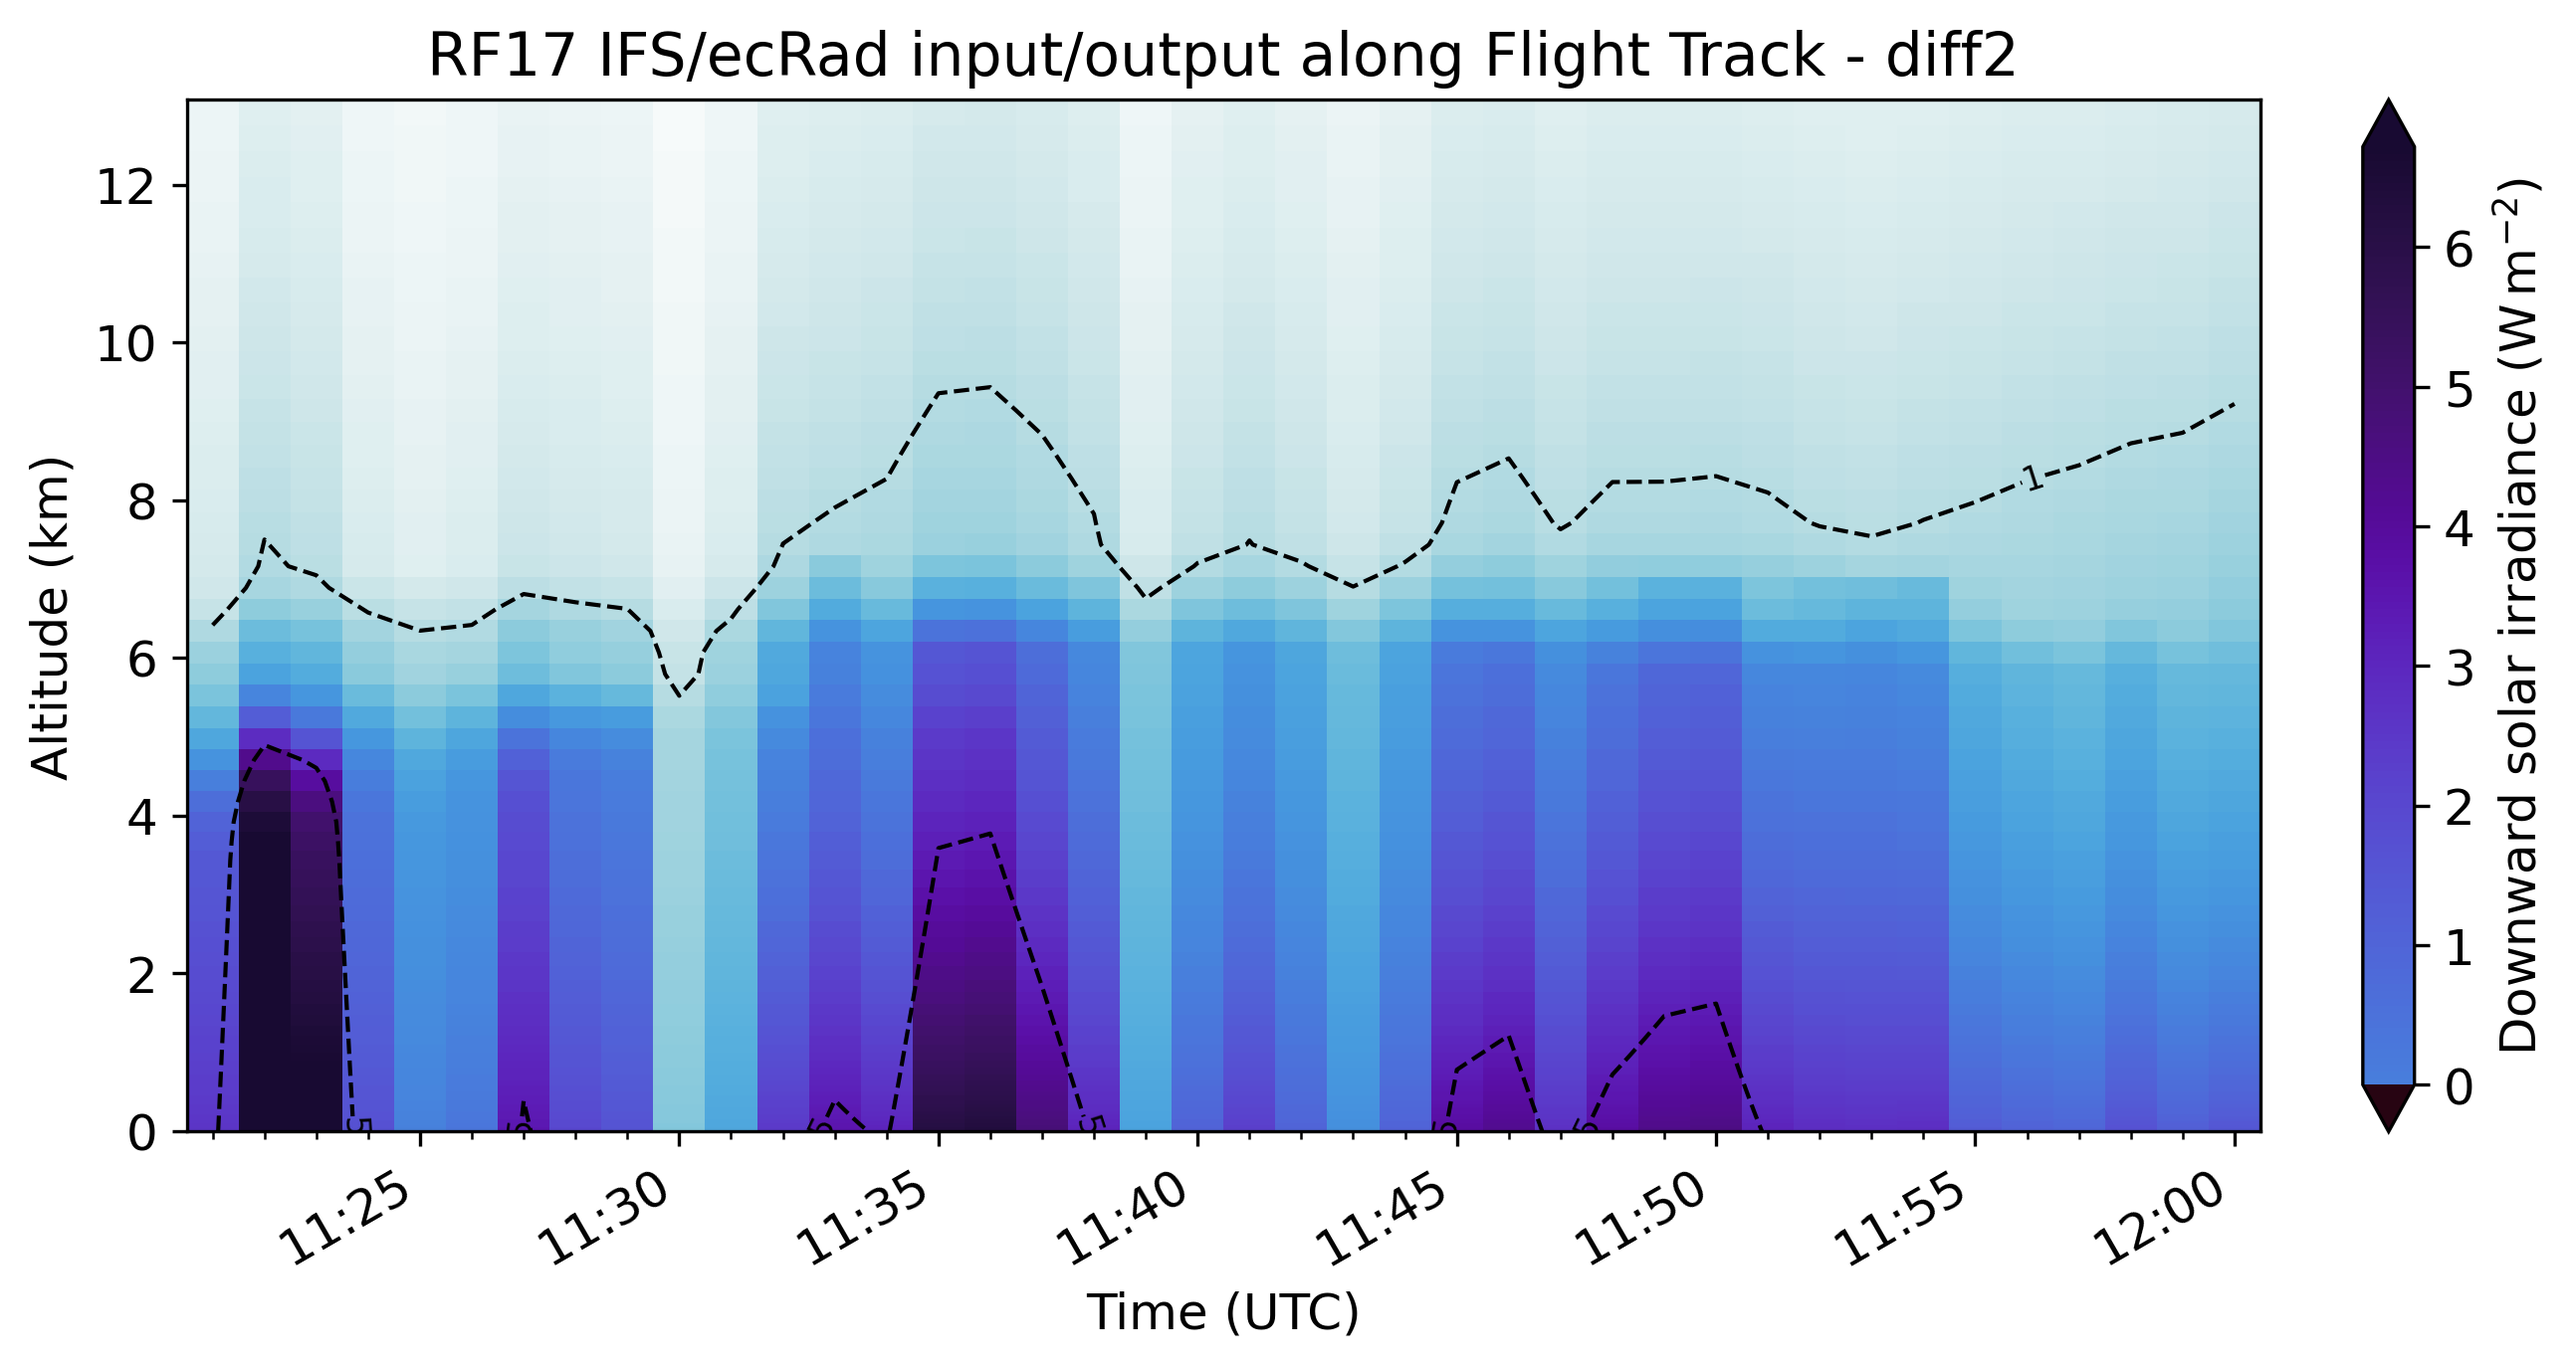
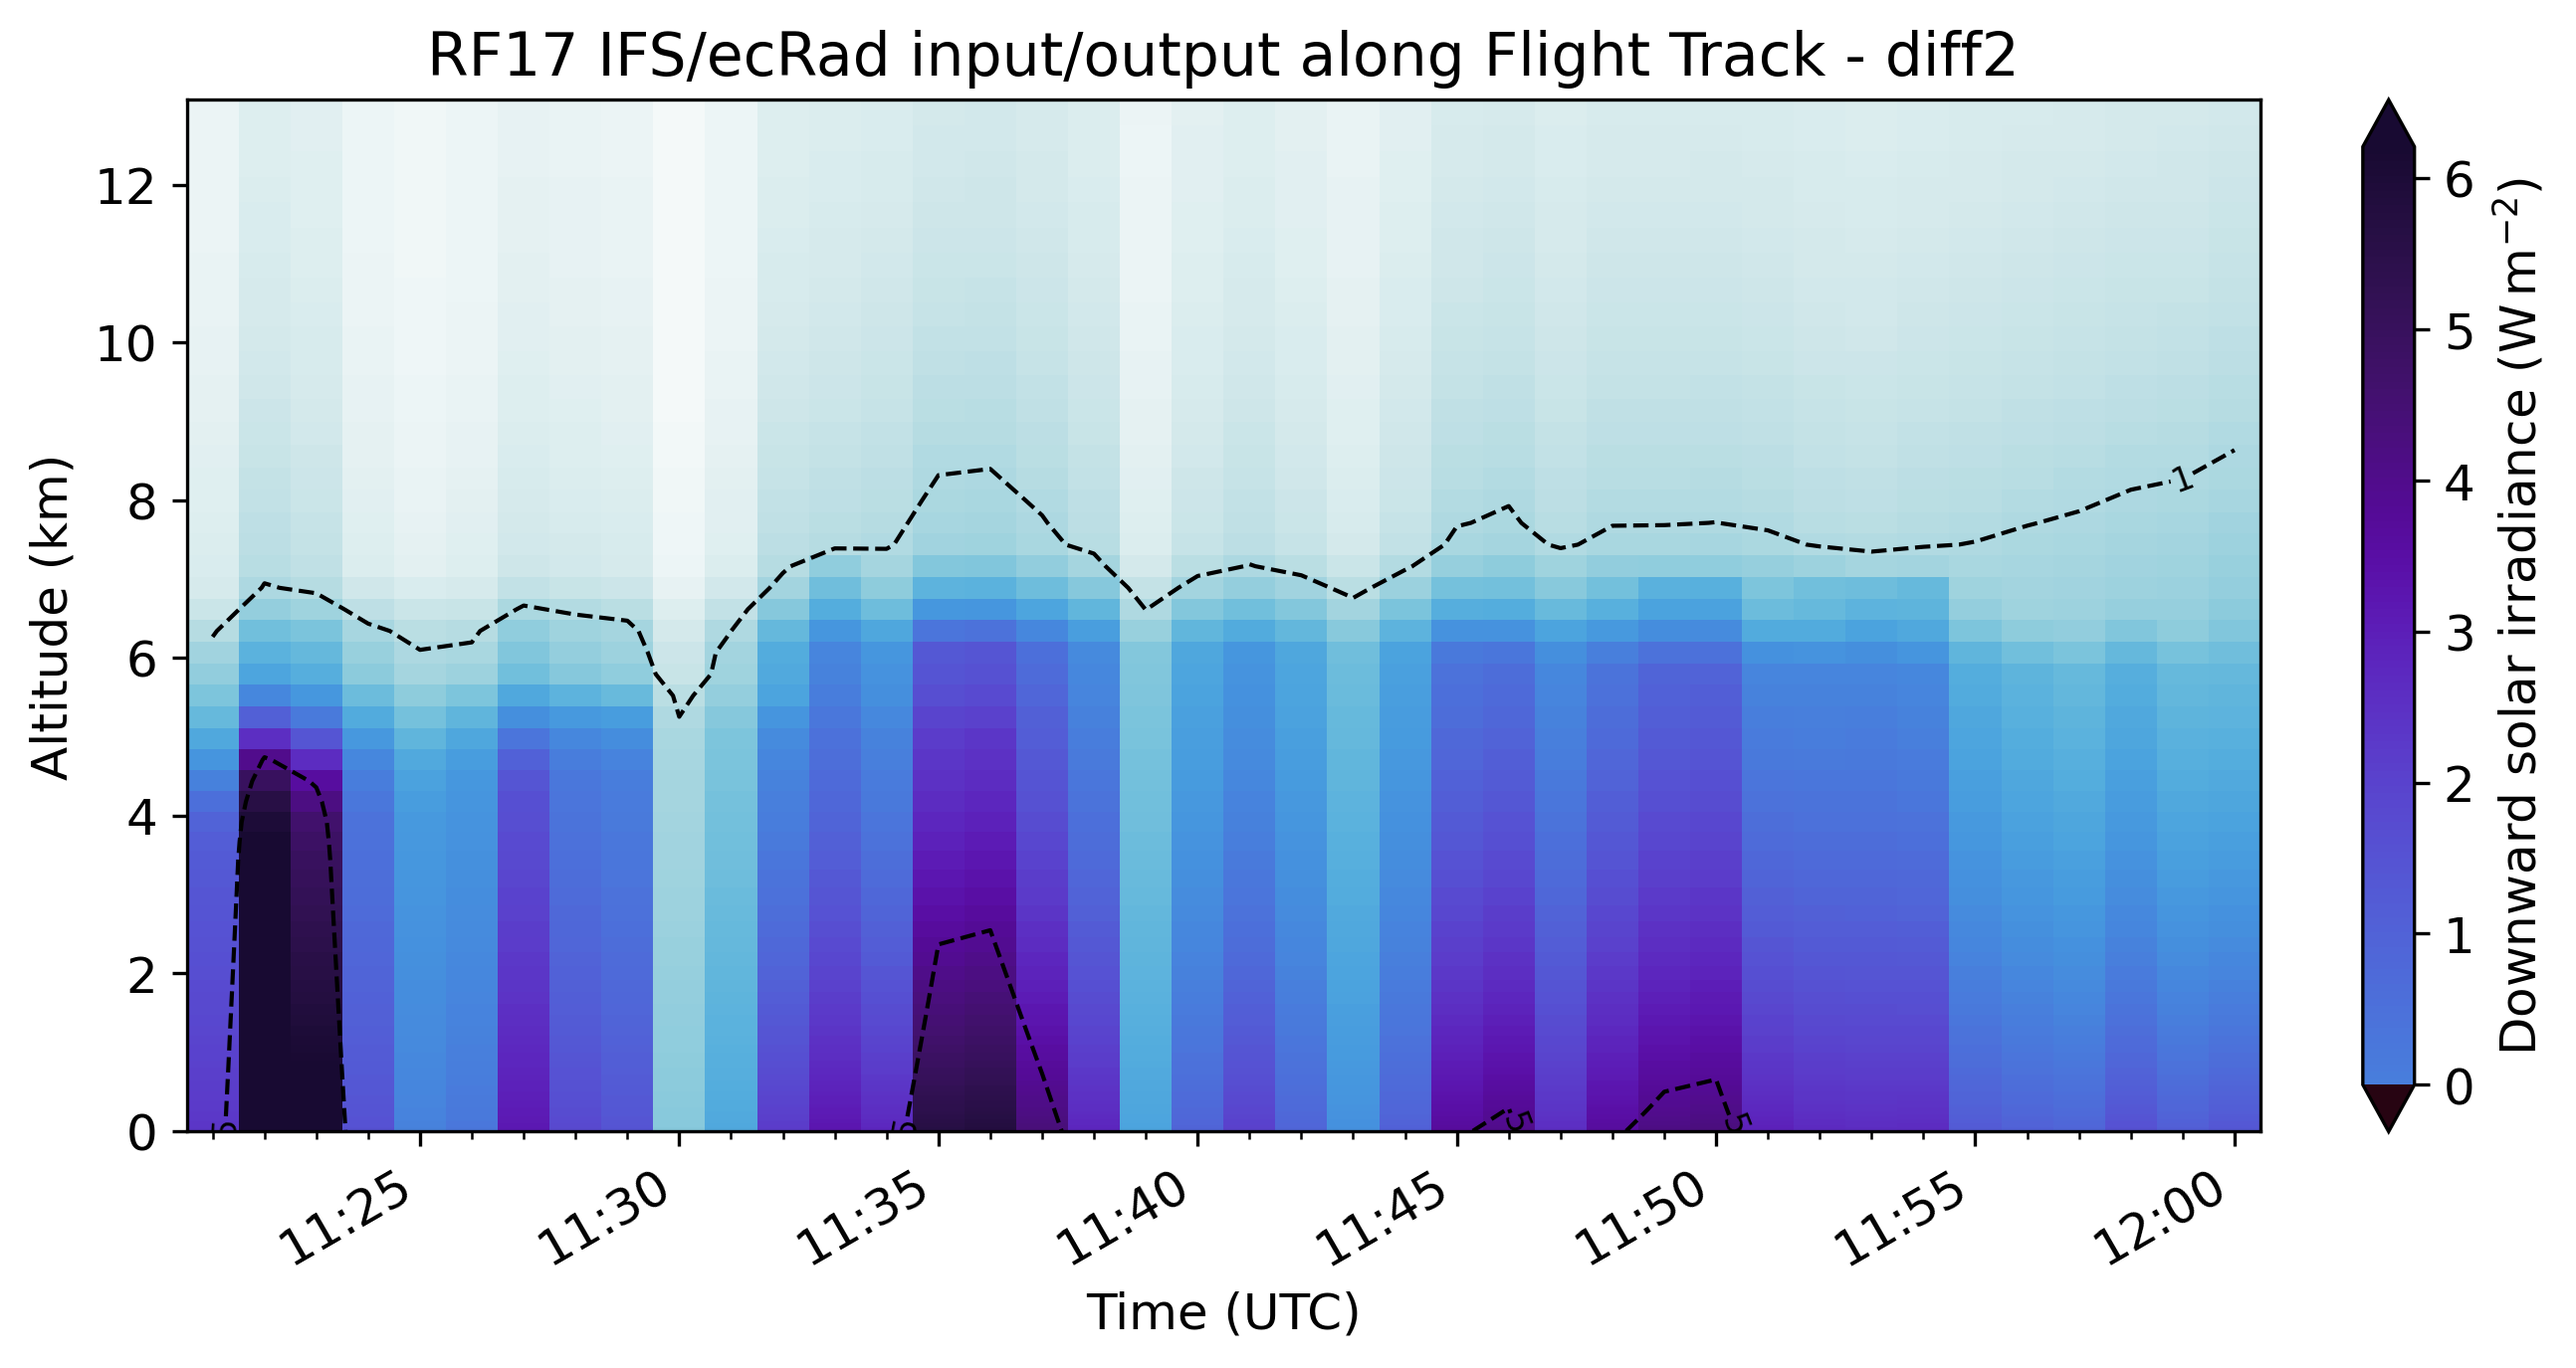
Update experiment v13 with new v15.1 run as comparison and new colors

diff --git a/experiments/ecrad_experiment_v13.py b/experiments/ecrad_experiment_v13.py
@@ -22,7 +22,7 @@ The corresponding spectral surface albedo as used in the IFS can be seen in :num
 
 .. _surface-albedo-cs:
 
-.. figure:: figures/experiment_v13/HALO-AC3_20220411_HALO_RF17_sw_albedo_along_track_v15.png
+.. figure:: figures/experiment_v13/HALO-AC3_20220411_HALO_RF17_sw_albedo_along_track_v15.1.png
 
     Short wave albedo along track above and below cloud for all six spectral bands after :cite:t:`Ebert1992`.
 
@@ -30,20 +30,20 @@ At first, we look at the difference in solar upward and downward irradiance betw
 
 .. figure:: figures/experiment_v13/HALO-AC3_20220411_HALO_RF17_ecrad_diff_flux_up_sw_along_track.png
 
-    Difference in solar upward irradiance between v15 and v13.
+    Difference in solar upward irradiance between v15.1 and v13.
 
 .. figure:: figures/experiment_v13/HALO-AC3_20220411_HALO_RF17_ecrad_diff_flux_dn_sw_along_track.png
 
-    Difference in solar downward irradiance between v15 and v13.
+    Difference in solar downward irradiance between v15.1 and v13.
 
 We can see an unsurprising substantial difference in upward irradiance which then propagates to a smaller but still relevant difference in downward irradiance.
 This is especially pronounced for the thicker section of the cirrus at around 11:15 UTC.
 
 Looking at this from a more statistical point of view we can see the bias between simulation and measurement increase by about :math:`10\,Wm^{-2}`.
 
-.. figure:: figures/experiment_v13/HALO-AC3_20220411_HALO_RF17_Fdw_solar_bacardi_vs_ecrad_scatter_below_cloud_v15.png
+.. figure:: figures/experiment_v13/HALO-AC3_20220411_HALO_RF17_Fdw_solar_bacardi_vs_ecrad_scatter_below_cloud_v15.1.png
 
-    Scatterplot of along track difference between ecRad and BACARDI for v15.
+    Scatterplot of along track difference between ecRad and BACARDI for v15.1.
 
 .. figure:: figures/experiment_v13/HALO-AC3_20220411_HALO_RF17_Fdw_solar_bacardi_vs_ecrad_scatter_below_cloud_v13.png
 
@@ -57,7 +57,7 @@ For this we can take a look at the histogramm of differences and some statistics
 
 .. figure:: figures/experiment_v13/HALO-AC3_20220411_HALO_RF17_ecrad_diff_flux_dn_sw_hist.png
 
-    Histogram of differences between v15 and v13.
+    Histogram of differences between v15.1 and v13.
 
 We see that a lot of values are rather small.
 They correspond to the area above the cloud where only the atmosphere causes some minor scattering.
@@ -71,7 +71,7 @@ See the script for details.
 
 .. figure:: figures/experiment_v13/HALO-AC3_20220411_HALO_RF17_ecrad_diff1_flux_dn_sw_along_track.png
 
-    Difference in solar downward irradiance between v15 and v13.1 (albedo = 0.99).
+    Difference in solar downward irradiance between v15.1 and v13.1 (albedo = 0.99).
 
 By scaling the albedo to an unrealistic value of 0.99 we get a maximum of :math:`0.7\\,Wm^{-2}` difference in solar downward irradiance.
 Comparing the spectral albedo of each experiment in :numref:`spectral-albedo-all-experiments` we can also see, that the standard albedo for the scene is already high.
@@ -88,9 +88,9 @@ Looking at the difference in solar downward irradiance we can see that it is sti
 
 .. figure:: figures/experiment_v13/HALO-AC3_20220411_HALO_RF17_ecrad_diff2_flux_dn_sw_along_track.png
 
-    Difference in solar downward irradiance between v15 and v13.2 (albedo from BACARDI).
+    Difference in solar downward irradiance between v15.1 and v13.2 (albedo from BACARDI).
 
-The comparison with the measurements also show a worse match compared to v15.
+The comparison with the measurements also show a worse match compared to v15.1.
 
 .. figure:: figures/experiment_v13/HALO-AC3_20220411_HALO_RF17_Fdw_solar_bacardi_vs_ecrad_scatter_below_cloud_v13.2.png
 
@@ -114,8 +114,8 @@ if __name__ == "__main__":
     from tqdm import tqdm
     import cmasher as cmr
 
-    cbc = h.get_cb_friendly_colors()
-    h.set_cb_friendly_colors()
+    cbc = h.get_cb_friendly_colors("petroff_6")
+    h.set_cb_friendly_colors("petroff_6")
     plt.rc("font", size=12)
 
 # %% set paths
@@ -164,7 +164,7 @@ if __name__ == "__main__":
 
 # %% read in ecrad data
     ecrad_dict = dict()
-    for v in ["v15", "v13", "v13.1", "v13.2"]:
+    for v in ["v15.1", "v13", "v13.1", "v13.2"]:
         # use center column data
         ds = xr.open_dataset(f"{ecrad_path}/ecrad_merged_inout_{date}_{v}.nc").isel(column=0)
         # select above and below cloud time
@@ -182,23 +182,6 @@ if __name__ == "__main__":
 
         ecrad_dict[k] = ds.copy()
 
-# %% get height level of actual flight altitude in ecRad model, this determines only the index of the level
-    aircraft_height_da, height_level_da = dict(), dict()
-    for v in ["v15", "v13", "v13.1", "v13.2"]:
-        ds = ecrad_dict[v]
-        bahamas_tmp = ins.sel(time=ds.time, method="nearest")
-        ecrad_timesteps = len(ds.time)
-        aircraft_height_level = np.zeros(ecrad_timesteps)
-
-        for i in tqdm(range(ecrad_timesteps)):
-            aircraft_height_level[i] = h.arg_nearest(ds["pressure_hl"][i, :].values, bahamas_tmp.PS[i].values * 100)
-
-        aircraft_height_level = aircraft_height_level.astype(int)
-        height_level_da[v] = xr.DataArray(aircraft_height_level, dims=["time"], coords={"time": ds.time})
-        aircraft_height = ds["pressure_hl"].isel(half_level=height_level_da[v])
-        aircraft_height_da[v] = xr.DataArray(aircraft_height, dims=["time"], coords={"time": ds.time},
-                                             name="aircraft_height", attrs={"unit": "Pa"})
-
 # %% prepare metadata for comparing ecRad and BACARDI
     titles = ["Solar Downward Irradiance", "Terrestrial Downward Irradiance", "Solar Upward Irradiance",
               "Terrestrial Upward Irradiance"]
@@ -208,7 +191,7 @@ if __name__ == "__main__":
 
 # %% set plotting options
     var = "flux_dn_sw"
-    v = "diff1"
+    v = "diff2"
     band = None
 
 # %% prepare data set for plotting
@@ -223,7 +206,7 @@ if __name__ == "__main__":
     cb_ticks = dict()
     vmaxs = dict()
     vmins = dict(iwp=0)
-    xlabels = dict(v15="v15", v13="v13", diff="Difference v15 - v13")
+    xlabels = {"v15.1": "v15.1", "v13": "v13", "diff": "Difference v15.1 - v13"}
 
     # set kwargs
     alpha = alphas[var] if var in alphas else 1
@@ -251,17 +234,17 @@ if __name__ == "__main__":
     if v == "diff":
         # calculate difference between simulations
         ds = ecrad_dict["v13"]
-        ecrad_ds_diff = ecrad_dict["v15"][var] - ds[var]
+        ecrad_ds_diff = ecrad_dict["v15.1"][var] - ds[var]
         ecrad_plot = ecrad_ds_diff.where((ds[var] != 0) | (~np.isnan(ds[var]))) * sf
     elif v == "diff1":
         # calculate difference between simulations
         ds = ecrad_dict["v13.1"]
-        ecrad_ds_diff = ecrad_dict["v15"][var] - ds[var]
+        ecrad_ds_diff = ecrad_dict["v15.1"][var] - ds[var]
         ecrad_plot = ecrad_ds_diff.where((ds[var] != 0) | (~np.isnan(ds[var]))) * sf
     elif v == "diff2":
         # calculate difference between simulations
         ds = ecrad_dict["v13.2"]
-        ecrad_ds_diff = ecrad_dict["v15"][var] - ds[var]
+        ecrad_ds_diff = ecrad_dict["v15.1"][var] - ds[var]
         ecrad_plot = ecrad_ds_diff.where((ds[var] != 0) | (~np.isnan(ds[var]))) * sf
     else:
         ds = ecrad_dict[v]
@@ -331,7 +314,7 @@ if __name__ == "__main__":
     plt.close()
 
 # %% plot histogram
-    xlabels = dict(diff="difference v15 - v13", diff1="difference v15 - v13.1", diff2="difference v15 - v13.2")
+    xlabels = dict(diff="difference v15.1 - v13", diff1="difference v15.1 - v13.1", diff2="difference v15.1 - v13.2")
     xlabel = xlabels[v] if v in xlabels else v
     flat_array = ecrad_plot.to_numpy().flatten()
     mean = np.mean(flat_array)
@@ -355,10 +338,10 @@ if __name__ == "__main__":
 
 # %% plot timeseries
     var = "sw_albedo"
-    v = "v15"
+    v = "v15.1"
     band = None
     if v == "diff":
-        ecrad_plot = ecrad_dict["v15"][var] - ecrad_dict["v13"][var]
+        ecrad_plot = ecrad_dict["v15.1"][var] - ecrad_dict["v13"][var]
     else:
         ecrad_plot = ecrad_dict[v][var]
 
@@ -380,7 +363,7 @@ if __name__ == "__main__":
 
 # %% plot albedo spectrum from below cloud
     _, ax = plt.subplots(figsize=h.figsize_wide)
-    for v in ["v15", "v13", "v13.1", "v13.2"]:
+    for v in ["v15.1", "v13", "v13.1", "v13.2"]:
         ds_plot = ecrad_dict[v]["sw_albedo"].sel(time="2022-04-11 11:00", method="nearest")
         ax.plot(ds_plot.to_numpy(), lw=3, label=v, marker="X", ms=12)
     ax.grid()
@@ -398,9 +381,9 @@ if __name__ == "__main__":
 # %% plot scatterplot of below cloud measurements
     v = "v13.2"
     bacardi_plot = bacardi_ds.sel(time=below_slice)
-    ecrad_plot = ecrad_dict[v].isel(half_level=height_level_da[v]).sel(time=below_slice)
+    ecrad_plot = ecrad_dict[v].isel(half_level=ecrad_dict[v].aircraft_level).sel(time=below_slice)
     plt.rc("font", size=12)
-    lims = {"v15": [(120, 240), (80, 130), (95, 170), (210, 220)], "v13": [(110, 240), (80, 150), (0, 200), (210, 220)],
+    lims = {"v15.1": [(120, 240), (80, 130), (95, 170), (210, 220)], "v13": [(110, 240), (80, 150), (0, 200), (210, 220)],
             "v13.2": [(110, 240), (80, 150), (0, 200), (210, 220)]}
     lims = lims[v]
     for (i, x), y in zip(enumerate(bacardi_vars), ecrad_vars):
@@ -433,8 +416,8 @@ if __name__ == "__main__":
         plt.close()
 # %% prepare data for box plot
     values = list()
-    for v in ["v15", "v13", "v13.1", "v13.2"]:
-        values.append(ecrad_dict[v].flux_dn_sw.isel(half_level=height_level_da[v]).sel(time=below_slice).to_numpy())
+    for v in ["v15.1", "v13", "v13.1", "v13.2"]:
+        values.append(ecrad_dict[v].flux_dn_sw.isel(half_level=ecrad_dict[v].aircraft_level).sel(time=below_slice).to_numpy())
 
     df = pd.DataFrame({"IFS": values[0], "Open Ocean": values[1],
                        "Maximum": values[2], "Measured":values[3]})
@@ -451,3 +434,5 @@ if __name__ == "__main__":
     plt.savefig(figname, dpi=300)
     plt.show()
     plt.close()
+
+# %% plot comparison of transmissivity
